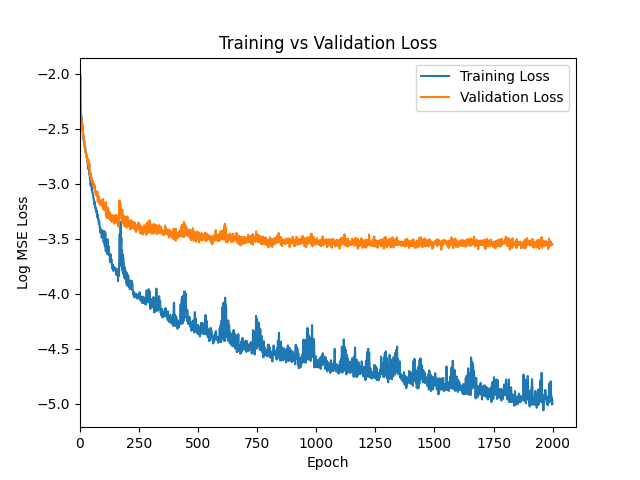
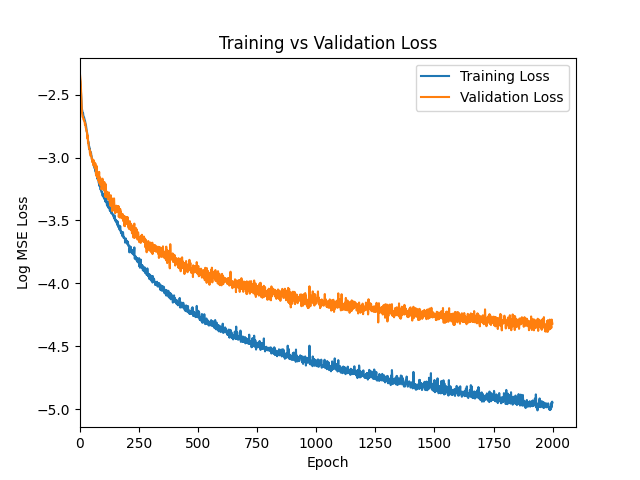
batch training, output graph, runs on unity gpu

diff --git a/model.py b/model.py
@@ -1,5 +1,6 @@
 import torch
 import torch.nn as nn
+from torch.utils.data import TensorDataset, DataLoader
 import math
 import matplotlib.pyplot as plt
 
@@ -8,17 +9,16 @@ from data_set import DataSet, one_hot_encoding_table
 class LatentPolynomialTransformer(nn.Module):
     def __init__(self, data_set: DataSet, d_model: int, nhead: int, num_layers: int, dim_feedforward: int, dim_head, lr: float):
         super().__init__()
-        
-        self.data_set = data_set
 
         self.pad_token = len(one_hot_encoding_table)
 
         vocab_size = len(one_hot_encoding_table) + 1
         max_input_seq_len = max(len(input_seq) for input_seq, _ in (data_set.training_data + data_set.validation_data))
 
-        device = "mps" if torch.backends.mps.is_available() else "cpu"
+        device = "mps" if torch.backends.cuda.a else "cpu"
 
-        self.training_tensors = []
+        training_inputs = []
+        training_expected_outputs = []
         for id_seq, expected_output in data_set.training_data:
             id_seq_tensor = torch.tensor(id_seq, dtype=torch.long, device=device)
 
@@ -27,9 +27,13 @@ class LatentPolynomialTransformer(nn.Module):
 
             expected_output_tensor = torch.tensor([ expected_output ], dtype=torch.float32, device=device)
 
-            self.training_tensors.append((padded_id_seq_tensor, expected_output_tensor))
+            training_inputs.append(padded_id_seq_tensor)
+            training_expected_outputs.append(expected_output_tensor)
 
-        self.validation_tensors = []
+        self.training_data = TensorDataset(torch.stack(training_inputs), torch.stack(training_expected_outputs))
+
+        validation_inputs = []
+        validation_expected_outputs = []
         for id_seq, expected_output in data_set.validation_data:
             id_seq_tensor = torch.tensor(id_seq, dtype=torch.long, device=device)
 
@@ -38,7 +42,10 @@ class LatentPolynomialTransformer(nn.Module):
 
             expected_output_tensor = torch.tensor([ expected_output ], dtype=torch.float32, device=device)
 
-            self.validation_tensors.append((padded_id_seq_tensor, expected_output_tensor))
+            validation_inputs.append(padded_id_seq_tensor)
+            validation_expected_outputs.append(expected_output_tensor)
+
+        self.validation_data = TensorDataset(torch.stack(validation_inputs), torch.stack(validation_expected_outputs))
 
         self.token_emb = nn.Embedding(vocab_size, d_model)
         self.pos_emb = nn.Embedding(max_input_seq_len + 1, d_model)
@@ -58,8 +65,6 @@ class LatentPolynomialTransformer(nn.Module):
             nn.ReLU(),
             nn.Linear(dim_head, dim_head),
             nn.ReLU(),
-            nn.Linear(dim_head, dim_head),
-            nn.ReLU(),
             nn.Linear(dim_head, 1)
         )
 
@@ -68,17 +73,17 @@ class LatentPolynomialTransformer(nn.Module):
 
         self.to(device)
 
-    def forward(self, input_ids: torch.tensor):
-        batch_size, seq_len = input_ids.shape
+    def forward(self, inputs: torch.tensor):
+        batch_size, seq_len = inputs.shape
 
-        token_embeddings = self.token_emb(input_ids)
+        token_embeddings = self.token_emb(inputs)
 
-        positions = torch.arange(seq_len, device=input_ids.device).unsqueeze(0)
+        positions = torch.arange(seq_len, device=inputs.device).unsqueeze(0)
         positional_embeddings = self.pos_emb(positions)
 
         embeddings = token_embeddings + positional_embeddings
 
-        mask = input_ids == self.pad_token
+        mask = inputs == self.pad_token
 
         embeddings = self.encoder(embeddings, src_key_padding_mask=mask)
 
@@ -86,60 +91,45 @@ class LatentPolynomialTransformer(nn.Module):
 
         return self.head(pooled)
     
-    def train(self, training_tensors: list[(torch.tensor, torch.tensor)]):
-        input_ids = []
-        expected_outputs = []
-
-        for id_seq, expected_output in training_tensors:
-            input_ids.append(id_seq)
-            expected_outputs.append(expected_output)
-
-        input_ids = torch.stack(input_ids)
-        expected_outputs = torch.stack(expected_outputs)
-
+    def train(self, inputs: torch.tensor, expected_outputs: torch.tensor):
         self.optimizer.zero_grad()
 
-        loss = self.loss_fn(self.forward(input_ids), expected_outputs)
+        loss = self.loss_fn(self.forward(inputs), expected_outputs)
 
         loss.backward()
+
+        torch.nn.utils.clip_grad_norm_(self.parameters(), 1.0)
 
         self.optimizer.step()
 
         return loss
     
-    def loss(self, validation_tensors: list[(torch.tensor, torch.tensor)]):
-        input_ids = []
-        expected_outputs = []
-
-        for id_seq, expected_output in validation_tensors:
-            input_ids.append(id_seq)
-            expected_outputs.append(expected_output)
-
-        input_ids = torch.stack(input_ids)
-        expected_outputs = torch.stack(expected_outputs)
-
-        return self.loss_fn(self.forward(input_ids), expected_outputs)
+    def loss(self, inputs: torch.tensor, expected_outputs: torch.tensor):
+        loss = self.loss_fn(self.forward(inputs), expected_outputs)
+        
+        return loss
     
 def main():
-    model = LatentPolynomialTransformer(DataSet(1200, 300), 64, 2, 4, 64, 64, 3e-3)
+    model = LatentPolynomialTransformer(DataSet(3600, 360), 128, 2, 4, 128, 128, 2e-5)
 
     epoch_samples = []
     training_loss_samples = []
     validation_loss_samples = []
 
-    sample_input_ids = []
-    sample_expectations = []
+    sample_inputs, sample_expected_outputs = model.validation_data.tensors
+    sample_inputs = sample_inputs[:7]
+    sample_expected_outputs = sample_expected_outputs[:7]
 
-    for input_ids, expected_output in model.validation_tensors[0:7]:
-        sample_input_ids.append(input_ids)
-        sample_expectations.append(expected_output)
-    
-    sample_input_ids = torch.stack(sample_input_ids)
-    sample_expectations = torch.stack(sample_expectations)
+    train_loader = DataLoader(model.training_data, batch_size=128, shuffle=True)
 
     for i in range(0, 2000):
-        training_loss = model.train(model.training_tensors)
-        validation_loss = model.loss(model.validation_tensors)
+        for inputs, expected_outputs in train_loader: model.train(inputs, expected_outputs)
+
+        training_inputs, training_expected_outputs = model.training_data.tensors
+        training_loss = model.loss(training_inputs, training_expected_outputs)
+
+        validation_inputs, validation_expected_outputs = model.validation_data.tensors
+        validation_loss = model.loss(validation_inputs, validation_expected_outputs)
 
         epoch_samples.append(i)
         training_loss_samples.append(math.log10(training_loss.detach().cpu().numpy()))
@@ -149,8 +139,8 @@ def main():
             print(f"After Batch {i}:")
             print(f"\tTraining Loss: {training_loss}")
             print(f"\tValidation Loss: {validation_loss}")
-            print(f"\tExpected: {sample_expectations.squeeze(1)}")
-            print(f"\tObserved: {model.forward(sample_input_ids).squeeze(1)}\n")
+            print(f"\tExpected: {sample_expected_outputs.squeeze(1)}")
+            print(f"\tObserved: {model.forward(sample_inputs).squeeze(1)}\n")
 
     plt.plot(epoch_samples, training_loss_samples, label="Training Loss")
     plt.plot(epoch_samples, validation_loss_samples, label="Validation Loss")
